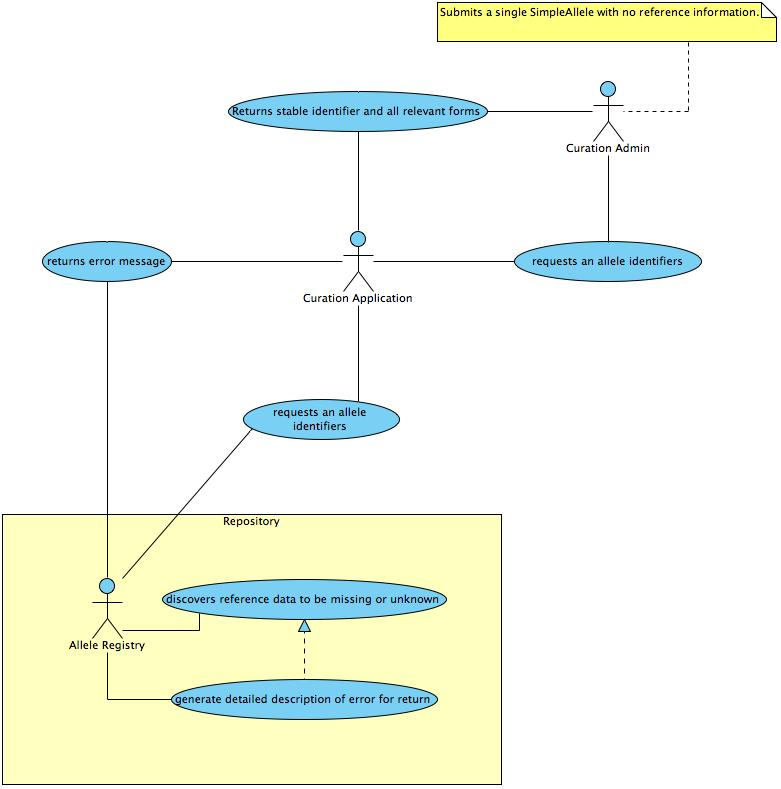
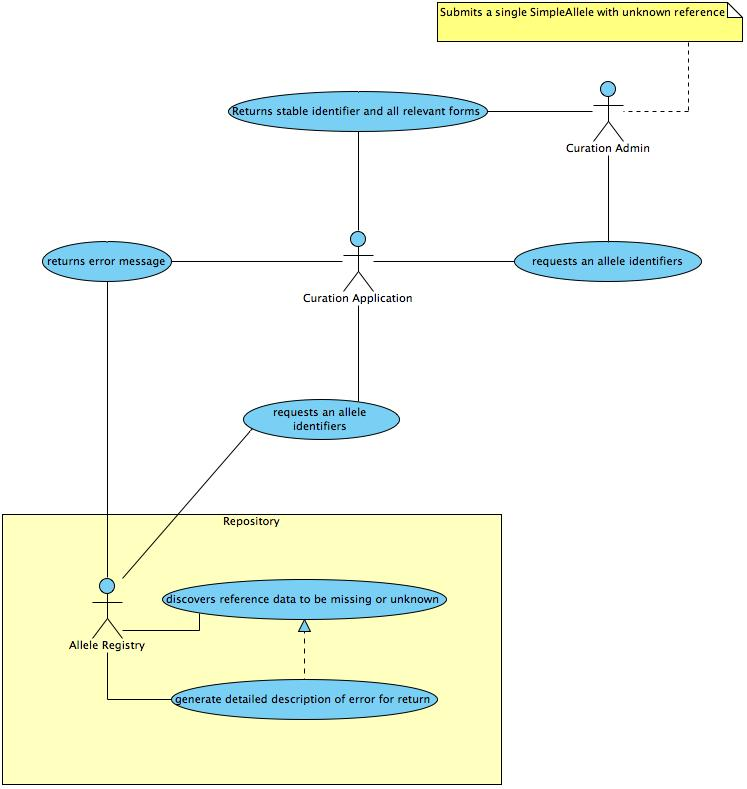
new use case added and images

diff --git a/docs/use-cases/UC114.md b/docs/use-cases/UC114.md
@@ -40,5 +40,3 @@ Curator submits a simpleAllele and it is discovered the given reference data doe
 - In this use-case example I had the *Allele Registry* search for possible correct reference information, I'm unsure if the Registry should handle this or just operate as [UC113](./UC113.md).
 
 #### Use Case Image
-
-![logo](https://github.com/clingen-data-model/allele-registry/blob/master/images/UC114.jpg)
